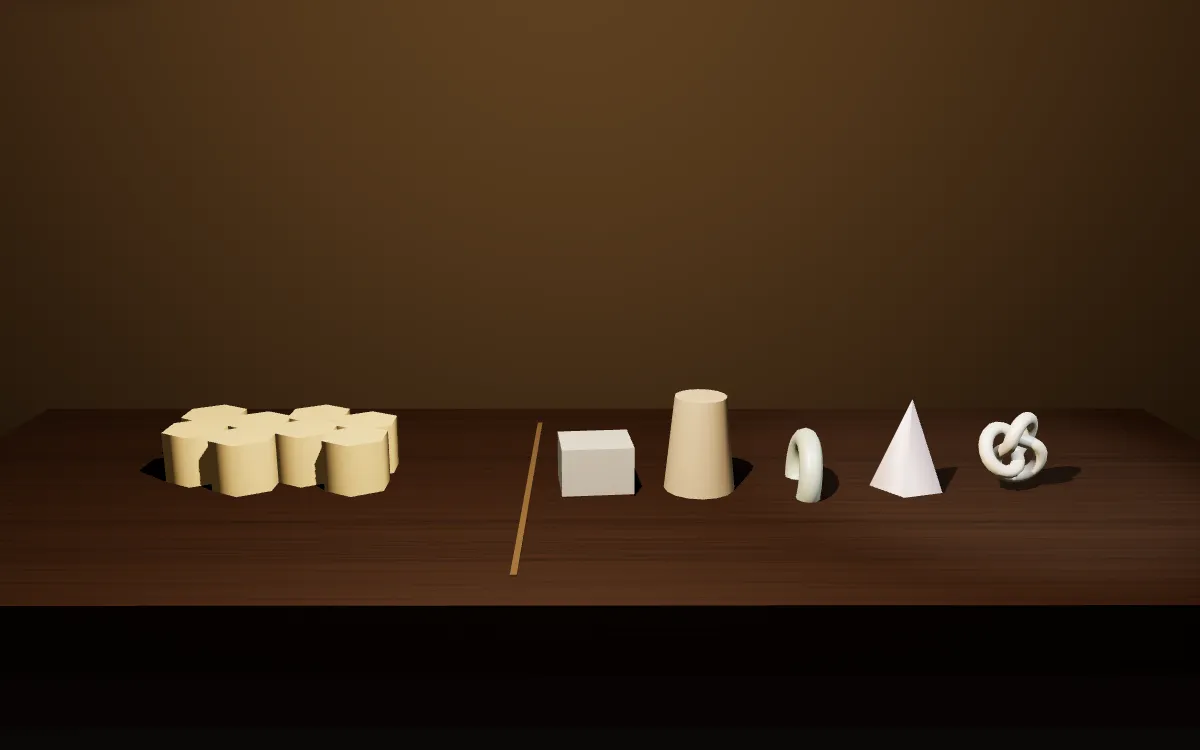
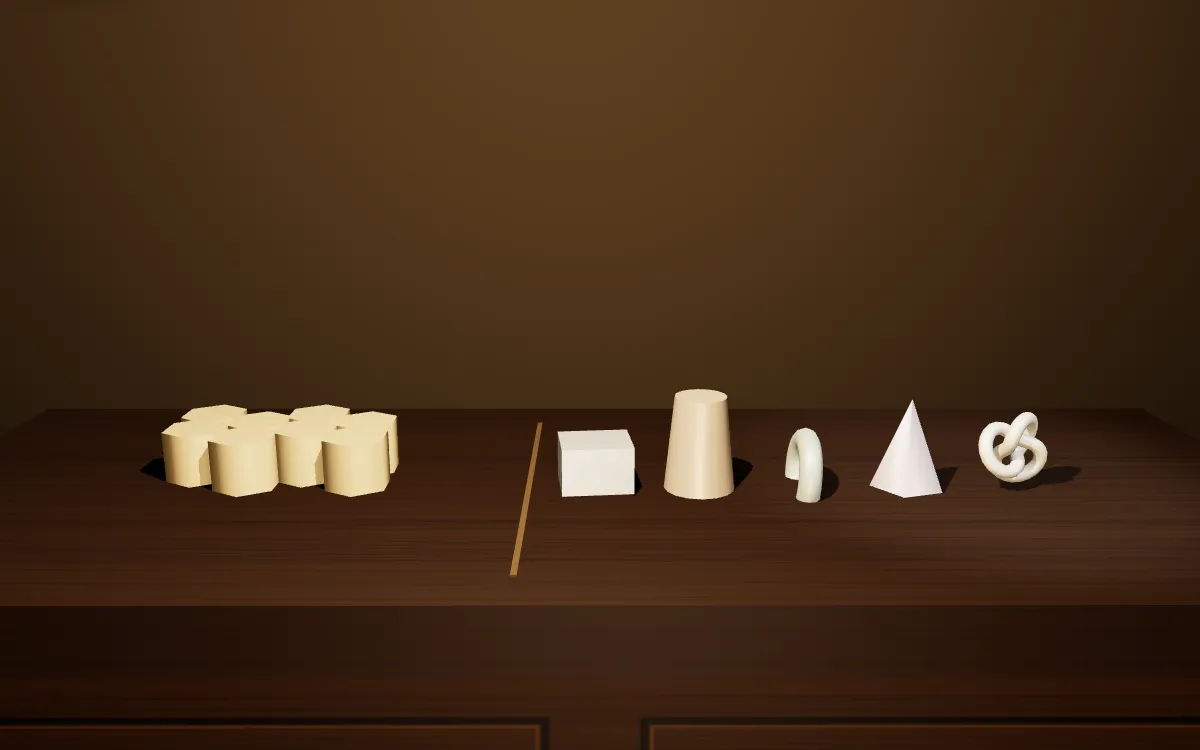
Glossaire : scène de etre-generique éclaircie et recadrée

diff --git a/glossaire/mondes/etre-generique/monde.js b/glossaire/mondes/etre-generique/monde.js
@@ -48,6 +48,43 @@ window.LM_MONDE = function (canvas) {
   });
   var etabli = new THREE.Mesh(new THREE.BoxGeometry(2.9, 0.13, 1.15), std({ map: boisTex, roughness: 0.66, color: 0xb59a78 }));
   etabli.position.set(0, -0.065, 0); etabli.castShadow = etabli.receiveShadow = true; scene.add(etabli);
+  /* LE BAS DU CADRE (oct. 2026) : sous le plateau, l'image tombait au noir
+     pur (cinquième bas mesuré à 5/255). L'établi a désormais un corps — un
+     tablier de bois à deux tiroirs qui descend jusqu'au plancher —, et le
+     plancher existe. Une lueur basse venue du devant les éclaire : la lampe,
+     au-dessus du plateau, ne prenait le tablier que de biais. */
+  var tablierTex = tex(1024, 256, function (g, w, h) {
+    g.fillStyle = '#4a321c'; g.fillRect(0, 0, w, h);
+    for (var i = 0; i < 120; i++) {
+      g.strokeStyle = 'rgba(16,9,3,' + (0.05 + rnd() * 0.12) + ')'; g.lineWidth = 0.6 + rnd() * 1.6;
+      g.beginPath(); var y = rnd() * h; g.moveTo(0, y);
+      for (var x = 0; x <= w; x += 60) g.lineTo(x, y + (rnd() - 0.5) * 4); g.stroke();
+    }
+    /* deux façades de tiroir, leur joint creusé, leur filet clair */
+    [[0.06, 0.47], [0.53, 0.94]].forEach(function (d) {
+      var x0 = d[0] * w, x1 = d[1] * w, y0 = 0.16 * h, y1 = 0.62 * h;
+      g.strokeStyle = 'rgba(10,6,2,0.85)'; g.lineWidth = 5; g.strokeRect(x0, y0, x1 - x0, y1 - y0);
+      g.strokeStyle = 'rgba(214,170,110,0.22)'; g.lineWidth = 2; g.strokeRect(x0 + 5, y0 + 5, x1 - x0 - 10, y1 - y0 - 10);
+    });
+  });
+  var tablier = new THREE.Mesh(new THREE.BoxGeometry(2.82, 0.62, 0.05), std({ map: tablierTex, roughness: 0.7, color: 0xc4ac88 }));
+  tablier.position.set(0, -0.44, 0.52); tablier.receiveShadow = true; scene.add(tablier);
+  var laiton = std({ color: 0xc89a4a, roughness: 0.35, metalness: 0.55 });
+  [-0.66, 0.66].forEach(function (x) {
+    var b = new THREE.Mesh(new THREE.SphereGeometry(0.026, 14, 10), laiton);
+    b.position.set(x, -0.40, 0.555); scene.add(b);
+  });
+  var plancherTex = tex(512, 512, function (g, w, h) {
+    g.fillStyle = '#3a2816'; g.fillRect(0, 0, w, h);
+    for (var k = 0; k < 8; k++) {
+      g.fillStyle = 'rgba(' + (60 + Math.floor(rnd() * 20)) + ',' + (40 + Math.floor(rnd() * 14)) + ',22,0.35)';
+      g.fillRect(0, k * h / 8, w, h / 8 - 3);
+      g.fillStyle = 'rgba(8,5,2,0.8)'; g.fillRect(0, (k + 1) * h / 8 - 3, w, 3);
+    }
+  });
+  plancherTex.wrapS = plancherTex.wrapT = THREE.RepeatWrapping; plancherTex.repeat.set(3, 3);
+  var plancher = new THREE.Mesh(new THREE.PlaneGeometry(10, 8), std({ map: plancherTex, roughness: 0.85, color: 0xb8a080 }));
+  plancher.rotation.x = -Math.PI / 2; plancher.position.set(0, -0.76, 1.6); plancher.receiveShadow = true; scene.add(plancher);
   var fond = new THREE.Mesh(new THREE.PlaneGeometry(10, 6), std({ color: 0x1a1209, roughness: 0.98 }));
   fond.position.set(0, 1.3, -1.75); fond.receiveShadow = true; scene.add(fond);
   /* un filet gravé sépare les deux moitiés de l'établi */
@@ -85,6 +122,9 @@ window.LM_MONDE = function (canvas) {
 
   /* ── la lumière ── */
   scene.add(new THREE.AmbientLight(0x3a2e22, 0.4));
+  /* la lueur basse, devant l'établi, sans ombre : elle prend le tablier et
+     le plancher, à peine le plateau */
+  var bas = new THREE.PointLight(0xffb070, 1.4, 4.2, 1.6); bas.position.set(0.1, -0.35, 1.9); scene.add(bas);
   var lampe = new THREE.PointLight(0xffc286, 3.0, 5.6, 1.8); lampe.position.set(-0.10, 1.16, 0.66);
   lampe.castShadow = true; lampe.shadow.bias = -0.0013; lampe.shadow.mapSize.set(1024, 1024); scene.add(lampe);
   var abat = new THREE.Mesh(new THREE.ConeGeometry(0.19, 0.15, 20, 1, true), std({ color: 0x2b1d13, roughness: 0.82, side: THREE.DoubleSide }));
